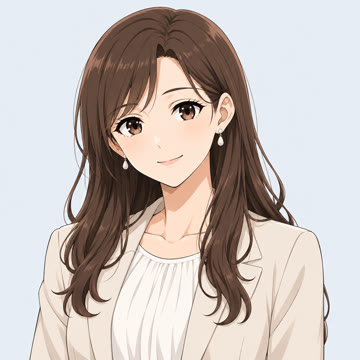
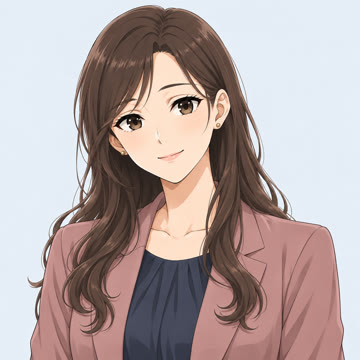
佐伯さん・女性の同僚・他部署3人の似顔絵と相関図を、新しいキャラクターシートに合わせて差し替える
佐伯さん（ローズのジャケット）、女性の同僚（青緑のカーディガン）、営業部・人事部（眼鏡・紫のジャケット）・総務部（40代・ニットベスト）が見分けられるようになった。
4話の予告（佐伯さんの一言）の画像も新しい佐伯さんに。見る人のブラウザに古い画像が残らないよう、差し替えた画像のURLに版の印を付けた（Codexの変更）。

diff --git a/index.html b/index.html
@@ -439,8 +439,8 @@ a{color:inherit}
            同じ名前のまま差し替えると、見る人のブラウザに古い画像が残る（最大10分）ので、差し替えたら ?v= の日付を2か所とも変える -->
       <div class="cast__map">
         <h3 class="cast__group">相関図</h3>
-        <a href="assets/cast/sokanzu.jpg?v=20260928" target="_blank" rel="noopener">
-          <img src="assets/cast/sokanzu.jpg?v=20260928" alt="都合さんと、家族・会社・喫茶店の人たちのつながりを表した相関図" width="1672" height="941" loading="lazy">
+        <a href="assets/cast/sokanzu.jpg?v=20260928-3" target="_blank" rel="noopener">
+          <img src="assets/cast/sokanzu.jpg?v=20260928-3" alt="都合さんと、家族・会社・喫茶店の人たちのつながりを表した相関図" width="1672" height="941" loading="lazy">
         </a>
         <p class="cast__map-note">押すと、大きな画像で開きます。</p>
       </div>
@@ -672,23 +672,23 @@ const CAST = [
       desc: '隣の席の主任。僕より十三も下。課長の前でだけ、やたらと声が大きい。', quote: '都合さん、それはちょっと考えが甘いですよ' },
     { key: 'kashiwagi', name: '柏木さん', role: '営業企画部', color: '#56606E', initial: '柏',
       desc: '六つ上のベテラン。怒った顔を誰も見たことがないのに、誰からも軽く扱われない人。', quote: '都合さん、全部を一人で抱えなくていいんですよ' },
-    { key: 'saeki', name: '佐伯さん', role: '同僚', color: '#A48E74', initial: '佐',
+    { key: 'saeki', name: '佐伯さん', role: '同僚', color: '#B47D86', initial: '佐',
       desc: '人の変化に、いちばん先に気づいてくれる同僚。', quote: '都合さん、大丈夫ですか？' },
     // シートの男性B・男性A・女性Cは、LPでは役割名で紹介する
     { key: 'doryo', name: '同僚', role: '同じ部署', color: '#557A9E', initial: '同',
       desc: '人の口ぐせに、よく気づく人。最近は資料を抱えて、僕のところへ確認を頼みに来る。', quote: '都合さん、この資料、穴がないか見てもらえませんか' },
     { key: 'kohai', name: '後輩', role: '同じ部署の若手', color: '#34466B', initial: '後',
       desc: '柏木さんには、まっすぐ目を見て相談するのに、僕のところには、書類を置いてすぐに帰っていく。', quote: '都合さんって優しいから、何を頼んでも大丈夫だよね' },
-    { key: 'doryo_c', name: '女性の同僚', role: '同じ部署', color: '#9A846E', initial: '同',
+    { key: 'doryo_c', name: '女性の同僚', role: '同じ部署', color: '#4D787C', initial: '同',
       desc: 'まわりをよく見ていて、僕が手いっぱいのときも先に気づいてくれる。', quote: '一緒に確認しましょう' },
   ] },
   // 会社の段と縦の列をそろえる（4列の中に3人）
   { place: '他部署', columns: 4, perRow: 4, people: [
-    { key: 'eigyo', name: '営業部の人', role: '他部署', color: '#3E5875', initial: '営',
+    { key: 'eigyo', name: '営業部の人', role: '他部署', color: '#4B5059', initial: '営',
       desc: '明るく話しやすい人。必要な情報を、僕にもこまめに共有してくれる。', quote: 'こちらでも確認しておきます' },
-    { key: 'jinji', name: '人事部の人', role: '他部署', color: '#9A846E', initial: '人',
+    { key: 'jinji', name: '人事部の人', role: '他部署', color: '#6B5669', initial: '人',
       desc: '落ち着いて話を聞き、相談の要点を一緒に整理してくれる。', quote: '無理のない範囲で進めましょう' },
-    { key: 'somu', name: '総務部の人', role: '他部署', color: '#527389', initial: '総',
+    { key: 'somu', name: '総務部の人', role: '他部署', color: '#4F6156', initial: '総',
       desc: '職場の小さな困りごとに気づき、働く環境を整えてくれる。', quote: '何かあれば声をかけてください' },
   ] },
   { place: '帰り道の喫茶店', people: [
@@ -713,7 +713,9 @@ function renderCast() {
         const face = el('figure', { class: 'person__face', style: `--c:${p.color}` });
         const img = el('img', { alt: p.name + 'のイラスト', width: '360', height: '360', loading: 'lazy' });
         img.addEventListener('error', () => face.classList.add('is-fallback'));
-        img.src = `assets/cast/${p.key}.jpg`;
+        const revised = p.key === 'saeki' ? '?v=20260928-3' :
+          ['doryo_c', 'eigyo', 'jinji', 'somu'].includes(p.key) ? '?v=20260928-2' : '';
+        img.src = `assets/cast/${p.key}.jpg${revised}`;
         face.append(img, el('span', { 'aria-hidden': 'true' }, p.initial));
         // 1人だけの段を4列ぶん使う（主人公の都合さん）ときは、横幅いっぱいのカードにする
         const wide = group.people.length === 1 && group.columns > 1;
@@ -925,7 +927,7 @@ const PREVIEW = {
   4: [
     ['assets/preview/04-1.jpg', '会議で片山課長が机を叩く'],
     ['assets/preview/04-2.jpg', '片山課長へ直すところを聞く都合さん'],
-    ['assets/preview/04-3.jpg', '佐伯さんが会議の話に静かに割って入る'],
+    ['assets/preview/04-3.jpg?v=20260928-3', '佐伯さんが会議の話に静かに割って入る'],
     ['assets/preview/04-4.jpg', '夜の寝室で考え続ける都合さん'],
     ['assets/preview/04.jpg', '夜中の二時過ぎ、布団の中で目が冴えている都合さん'],
   ],
